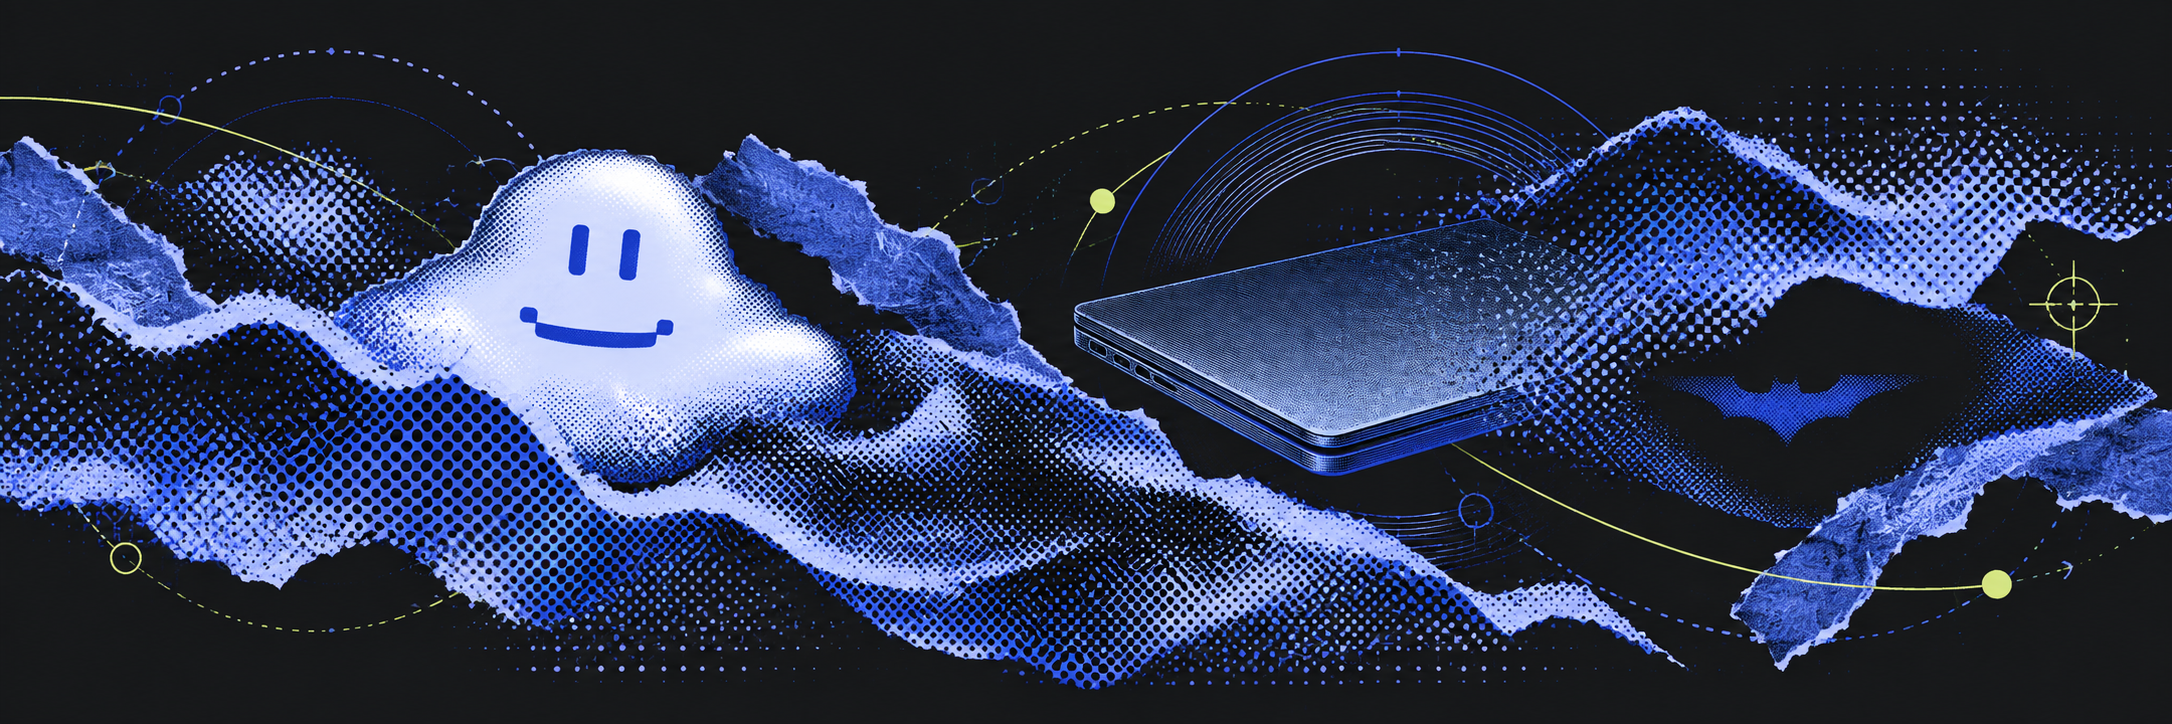
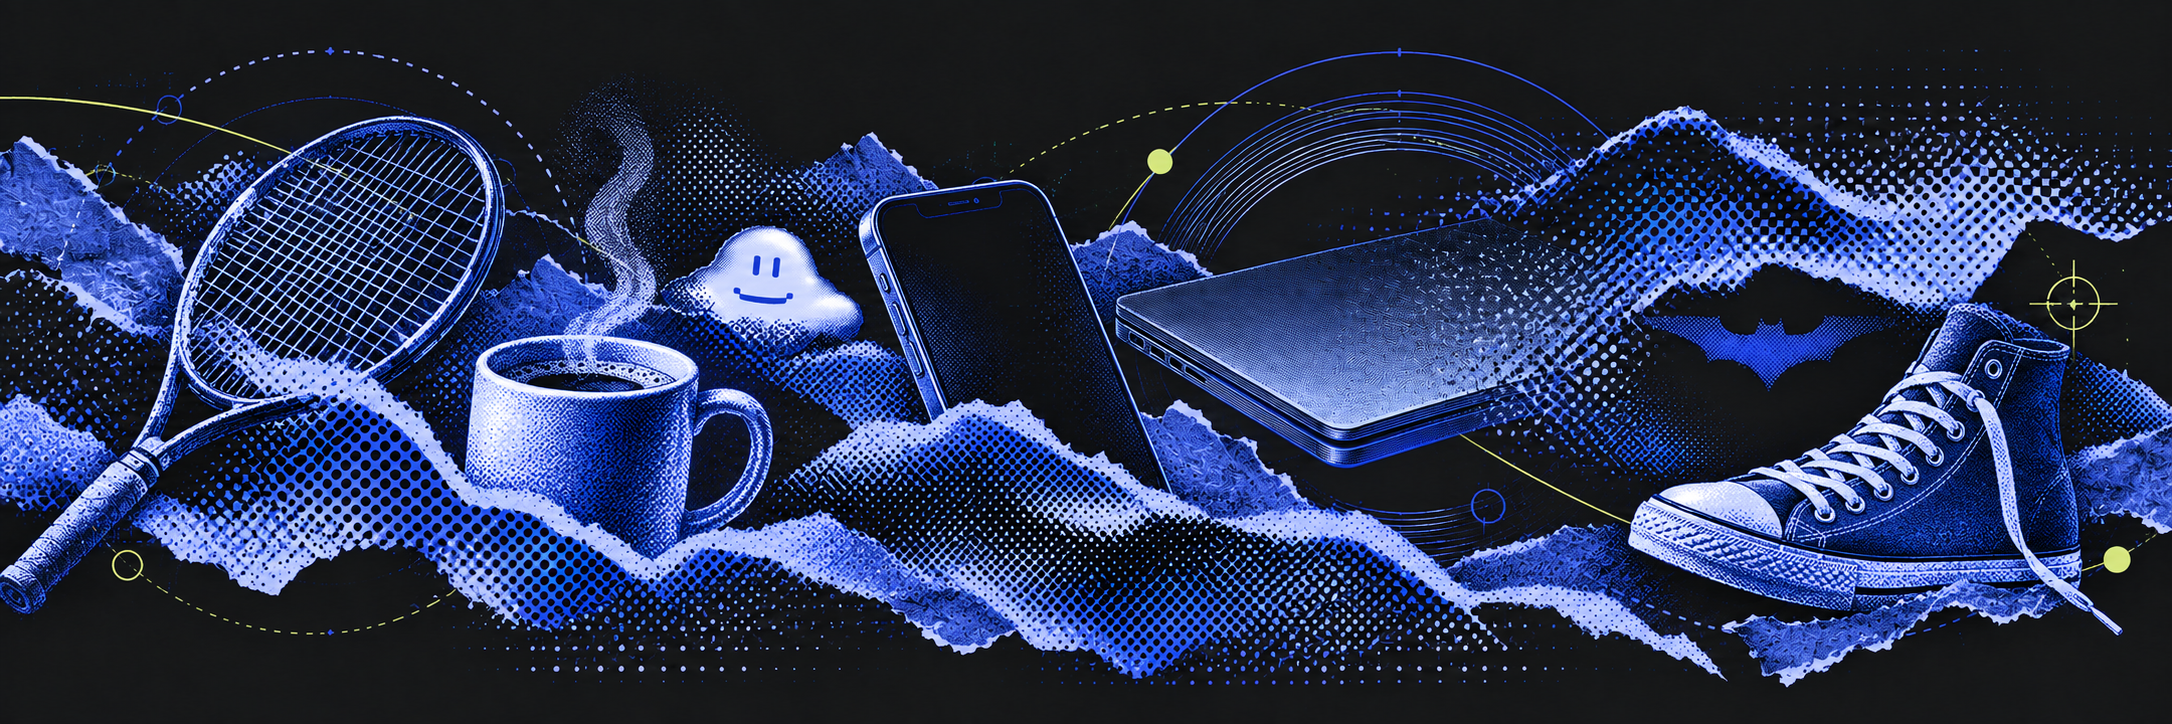
Personalize collage with tennis, coffee, iPhone, and sneaker

diff --git a/README.md b/README.md
@@ -1,4 +1,4 @@
-[![Abstract blue halftone collage with a smiling cloud, flowing terrain, orbital lines, and a laptop and bat inspired by Vampire.](assets/profile-banner.png)](https://grantisom.com)
+[![Blue halftone collage of a tennis racquet, steaming coffee mug, iPhone, canvas high-top sneaker, small smiling cloud, and Vampire-inspired laptop and bat, woven through abstract terrain and orbital lines.](assets/profile-banner.png)](https://grantisom.com)
 
 ## Hi, I'm Grant.
 
